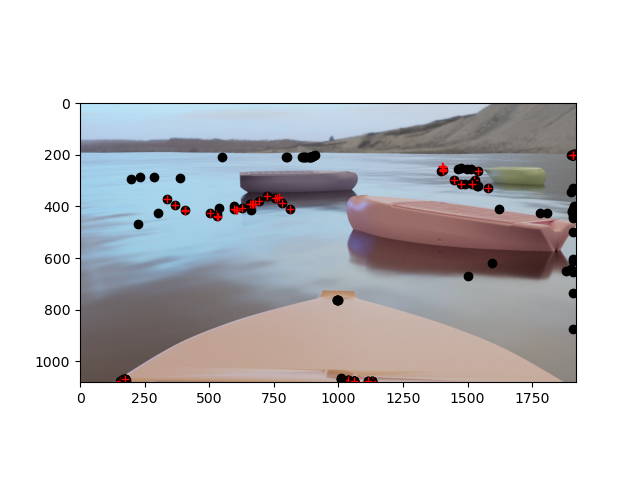
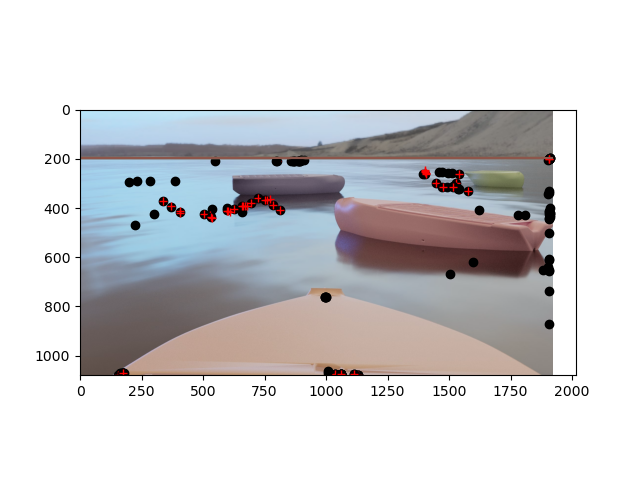
Plot Horizont

diff --git a/TestFile/Projekt/gnn_algorithmus.py b/TestFile/Projekt/gnn_algorithmus.py
@@ -24,7 +24,7 @@ def gnn(p_d,M,N,dimensions,T,ObjectHandler,Q,R,P_i_init,treshhold):
         ObjectHandler.setImageBaseName('')
         ObjectHandler.setImageFileType('.jpg')
         ObjectHandler.setDebugLevel(2)
-        safe_pic = True  
+        safe_pic = True 
 
         F = [[1,T,0,0],
              [0,1,0,0],
@@ -86,8 +86,8 @@ def gnn(p_d,M,N,dimensions,T,ObjectHandler,Q,R,P_i_init,treshhold):
                 n,estimate = initMnLogic(M,N,mn_data,[0,0],T, estimate,treshhold,n) #Anzahl Objekte
                 estimate_all.append(estimate.tolist())
                 #MN Horizont aufrufen, um nur eine Linie von drei zu erhalten als Horizont-Kandidat
-                est_hor_k[0,0] = horizon_lines_k[0].height #vorübergehend
-                est_hor_k[0,1] = horizon_lines_k[0].angle #vorübergehend
+                est_hor_k[0,0] = horizon_lines_k[1].height #vorübergehend
+                est_hor_k[0,1] = horizon_lines_k[1].angle #vorübergehend
                 #est_hor_k = mn_horizon(horizon_list,N,M) #Estimate horizon am Zeitschritt k
             if k>= N: #Falls Daten schon vorbereitet, Algorithmus starten
                 #Horizontfilterung
@@ -163,7 +163,7 @@ def gnn(p_d,M,N,dimensions,T,ObjectHandler,Q,R,P_i_init,treshhold):
                 positionen_k = multi_dot([H,estimate])
                 plot_GNN(positionen_k,current_measurement_k,fig, axs,k,ObjectHandler)
                 if safe_pic == True:
-                    plot_GNN_realpic(ObjectHandler,positionen_k,k,N, real_pic,current_measurement_k)
+                    plot_GNN_realpic(ObjectHandler,positionen_k,k,N, real_pic,current_measurement_k,est_hor_k[0,0])
                 
                 estimate_all.append(estimate.tolist())
                 velocity_k = np.transpose(multi_dot([H_velocity,estimate])).tolist()

diff --git a/TestFile/Projekt/plot.py b/TestFile/Projekt/plot.py
@@ -17,7 +17,7 @@ def plot_GNN(pos_k,meas_k,fig, axs,k,ObjectHandler):
          axs[2].plot(absolute_value_gnn,k,'r+')
          
 
-def plot_GNN_realpic(ObjectHandler,pos_k,k,N, real_pic,meas_k):
+def plot_GNN_realpic(ObjectHandler,pos_k,k,N, real_pic,meas_k,height_hor):
 
     cwd = os.getcwd() 
     pfad = cwd +'\ObjektDetektion' #Aktueller pfad
@@ -30,6 +30,8 @@ def plot_GNN_realpic(ObjectHandler,pos_k,k,N, real_pic,meas_k):
     img_h, img_w,_  = img.shape
     obj_h = ObjectHandler.getImgHeight()
     obj_w = ObjectHandler.getImgWidth()
+    hor_point_x = [0,img_w]
+    hor_point_y = [height_hor*img_h/obj_h, height_hor*img_h/obj_h]
     plt.imshow(img)
     n = len(pos_k[0])
     #Plot aller Messungen
@@ -39,6 +41,8 @@ def plot_GNN_realpic(ObjectHandler,pos_k,k,N, real_pic,meas_k):
     #Plot Objektdetektion
     for i in range(n):
         plt.plot(pos_k[0,i]*img_w/obj_w,pos_k[1,i]*img_h/obj_h,'r+')
+    
+    plt.plot(hor_point_x, hor_point_y)
     real_pic.savefig(pfad + name)
     
 
